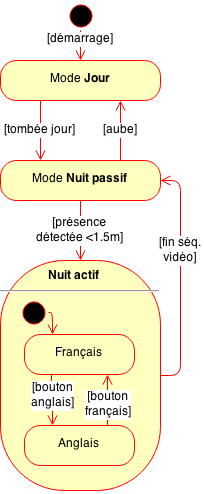
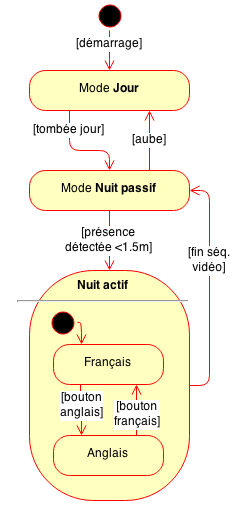
Ajusté marges du diagramme pour alignement à droite

Changed region(s): [[0.0, 0.0, 0.9706, 1.0]]

diff --git a/code/animation/README.md b/code/animation/README.md
@@ -6,7 +6,7 @@ Le coeur de l'installation est une animation interactive réalisée avec [MaxMSP
 
 ### Etats
 
-<img src="docs/animation-state-diagram.png" width="204" height="494" style="float: right;">Cette animation possède 3 états:
+<img src="docs/animation-state-diagram.png" width="236" height="519" align="right">Cette animation possède 3 états:
 
 * un mode _jour_, dans lequel elle présente une oeuvre du musée, immobile, silencieuse, avec des indications sur l'exposition en cours au musée (séquence vidéo [wait_day.mov](https://docs.google.com/file/d/0B6MJiDb9PY-7dF9BYVZyank3Sms/edit), voir ci-après); elle est semblable à une affiche imprimée;
 * un mode _nuit passif_, où elle présente une oeuvre du musée dans une animation silencieuse, énigmatique, qui invite les passants à la curiosité (séquence vidéo [wait_night.mov](https://docs.google.com/file/d/0B6MJiDb9PY-7WmdQRHFVMVdBVXc/edit));
